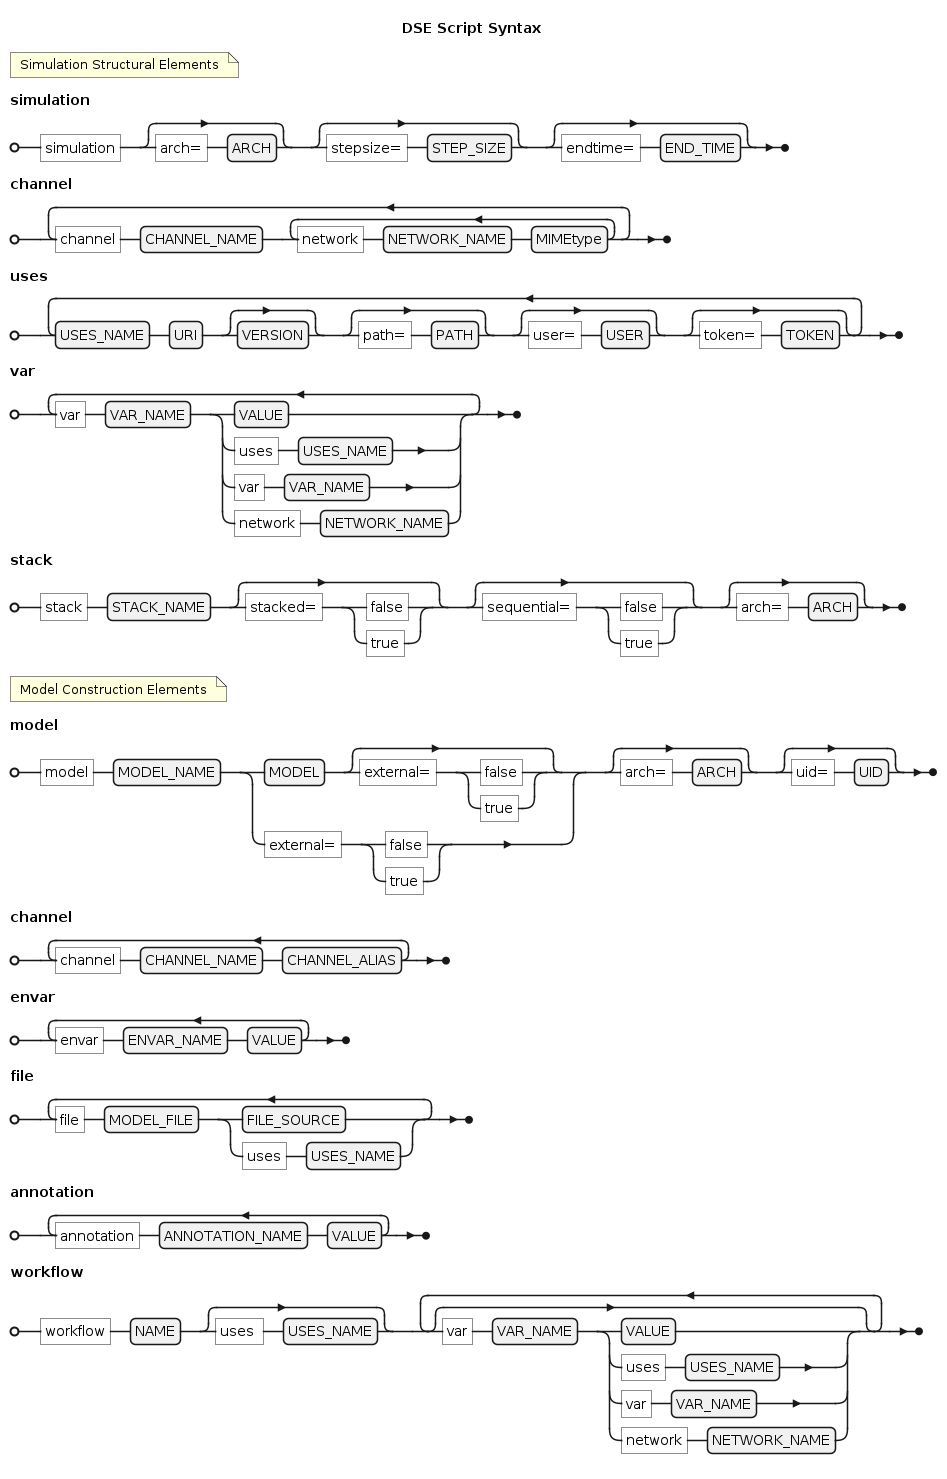
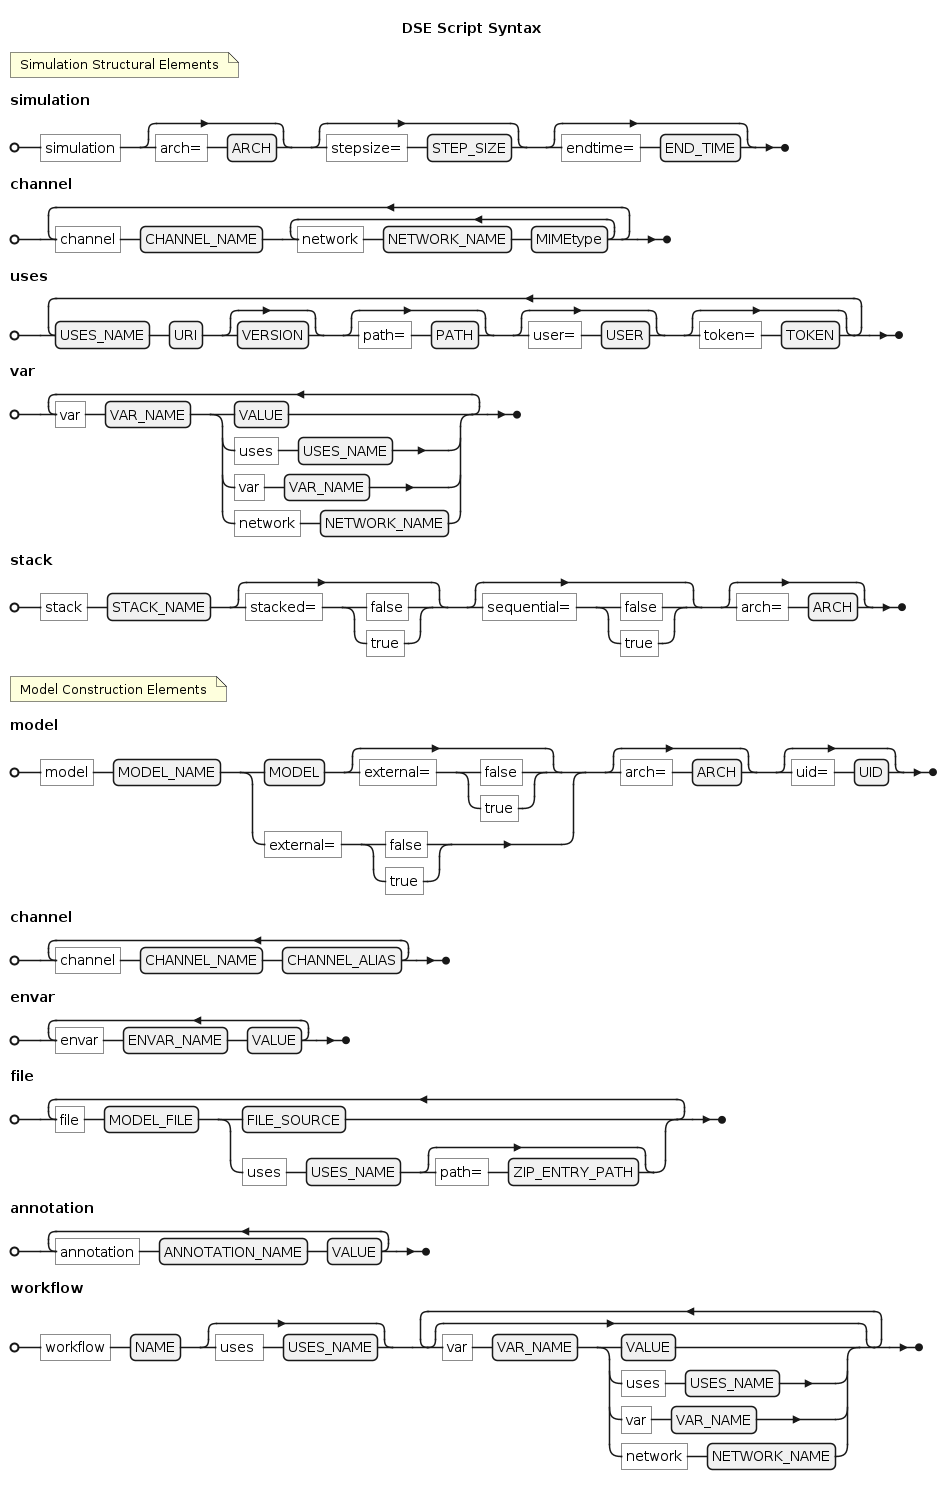
DSE Script support for'file <uses> path=<path in zip>'

Changed region(s): [[0.0, 0.0311, 1.0, 0.9953], [0.735, 0.7465, 0.7656, 0.7776]]

diff --git a/doc/static/syntax_diagrams.html b/doc/static/syntax_diagrams.html
@@ -599,7 +599,17 @@
                   "idx": 1
                 }
               ]
-            }
+            },
+            {
+              "type": "Option",
+              "idx": 3,
+              "definition": [{
+                "type": "NonTerminal",
+                "name": "zip_path",
+                "label": "zip_path",
+                "idx": 0
+              }]
+            },
           ]
         },
       ]
@@ -827,6 +837,30 @@
           "type": "NonTerminal",
           "name": "value_num",
           "idx": 2
+        }
+      ]
+    },
+    {
+      "type": "Rule",
+      "name": "zip_path",
+      "orgText": "",
+      "definition": [{
+          "type": "Terminal",
+          "name": "path",
+          "label": "path",
+          "idx": 0
+        },
+        {
+          "type": "Terminal",
+          "name": "Equals",
+          "label": "=",
+          "idx": 1
+        },
+        {
+          "type": "NonTerminal",
+          "name": "value_str",
+          "label": "value_str",
+          "idx": 1
         }
       ]
     },

diff --git a/dsl/lib/lexer/lexing.ts b/dsl/lib/lexer/lexing.ts
@@ -91,7 +91,7 @@ export const Channel = createToken({
 });
 
 function matchFile(text: string) {
-  const filePattern = /^[ \t]*file([ ]+\S+)([ ]+(?:uses))?([ ]+\S+)?\s*(?:\#.*)?$/;
+  const filePattern = /^[ \t]*file([ ]+\S+)([ ]+(?:uses))?([ ]+\S+)?(?:[ ]+(path\=\S+))?\s*(?:\#.*)?$/;
   const execResult = filePattern.exec(text) as CustomRegExpExecArray;
   if (execResult !== null) {
     const fileName = execResult[1];
@@ -102,6 +102,10 @@ function matchFile(text: string) {
     let fileValue = "";
     if (execResult[3] !== undefined) {
       fileValue = execResult[3];
+    }
+    let pathInZip = "";
+    if (execResult[4] !== undefined) {
+      pathInZip = execResult[4];
     }
 
     execResult.payload = {
@@ -116,6 +120,10 @@ function matchFile(text: string) {
       file_value: {
         value: fileValue.trim(),
         token_type: "file_value",
+      },
+      path_in_zip: {
+        value: pathInZip.replace("path=", "").trim(),
+        token_type: "path_in_zip",
       },
     };
   }

diff --git a/ast/internal/app/generate/taskfile_model.go b/ast/internal/app/generate/taskfile_model.go
@@ -608,9 +608,16 @@ func buildModel(model ast.Model, simSpec ast.SimulationSpec) (Task, error) {
 						downloadFile = fmt.Sprintf("downloads/models/{{.MODEL}}/%s", filepath.Base(resolvedPath))
 					}
 					usesDownloadFilePaths[fileUses.Name] = downloadFile
-					*task.Cmds = append(*task.Cmds, Cmd{
-						Cmd: fmt.Sprintf("cp %s %s", downloadFile, filePath),
-					})
+					if strings.EqualFold(filepath.Ext(downloadFile), ".zip") && f.Path != nil && *f.Path != "" { // within zip archive, eg : file file.txt uses use_ref path=data/sample.txt
+						resolvedPath := expandEnvVars(*f.Path)
+						*task.Cmds = append(*task.Cmds, Cmd{
+							Cmd: fmt.Sprintf("unzip -p %s '%s' > %s", downloadFile, resolvedPath, filePath),
+						})
+					} else {
+						*task.Cmds = append(*task.Cmds, Cmd{
+							Cmd: fmt.Sprintf("cp %s %s", downloadFile, filePath),
+						})
+					}
 					*task.Sources = append(*task.Sources, fmt.Sprintf("%s", downloadFile))
 				} else {
 					sourcePath := ""

diff --git a/ast/internal/app/convert/convert.go b/ast/internal/app/convert/convert.go
@@ -380,6 +380,13 @@ func (c *ConvertCommand) generateSimulationAST(file string, labels ast.Labels) e
 							return nil
 						}
 					}(),
+					Path: func() *string {
+						v := value.Get("object.payload.path_in_zip.value")
+						if v.Exists() {
+							return util.StringPtr(v.String())
+						}
+						return nil
+					}(),
 				}
 				return files
 			})

diff --git a/doc/content/docs/user/builder/index.md b/doc/content/docs/user/builder/index.md
@@ -91,7 +91,7 @@ model =
     [ "uid=", UID ];
 channel = { "channel", CHANNEL_NAME, CHANNEL_ALIAS }-;
 envar = { "envar", ENVAR_NAME, VALUE }-;
-file = { "file", MODEL_FILE, (FILE_SOURCE | "uses", USES_NAME) }-;
+file = { "file", MODEL_FILE, (FILE_SOURCE | "uses", USES_NAME, [ "path=", ZIP_ENTRY_PATH ] )}-;
 annotation = { "annotation", ANNOTATION_NAME, VALUE }-;
 
 
@@ -145,12 +145,14 @@ workflow =
 
 <pre>
 <b>file</b> <var>MODEL_FILE</var> [FILE_SOURCE]
-<b>file</b> <var>MODEL_FILE</var> [use USES_NAME]
+<b>file</b> <var>MODEL_FILE</var> [use USES_NAME] [path=ZIP_ENTRY_PATH]
+
 </pre>
 
 * <code><var>MODEL_FILE</var></code>: the _name_ by which the model refers to the file.
 * <code><var>FILE_SOURCE</var></code>: the actual _path_ of the file.
 * <code><var>USES_NAME</var></code>: the name of a dependency that this file entry imports.
+* <code><var>ZIP_ENTRY_PATH</var></code>: the path to the file within the ZIP archive.
 
 
 ### Model